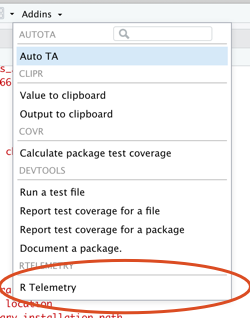
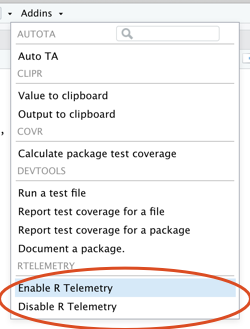
Add persistence to options

Changed region(s): [[0.0, 0.0283, 1.0, 1.0]]

diff --git a/README.md b/README.md
@@ -19,8 +19,6 @@ At the beginning of your development session, open the Addins menu in RStudio.
 
 ![](https://raw.githubusercontent.com/willcrichton/rtelemetry/master/assets/step1.png)
 
-Then click "R Telemetry" from the dropdown. You're good to go!
+Then click "Enable R Telemetry" from the dropdown. You're good to go!
 
 ![](https://raw.githubusercontent.com/willcrichton/rtelemetry/master/assets/step2.png)
-
-Make sure to re-run this command if you close RStudio or restart the R session.
